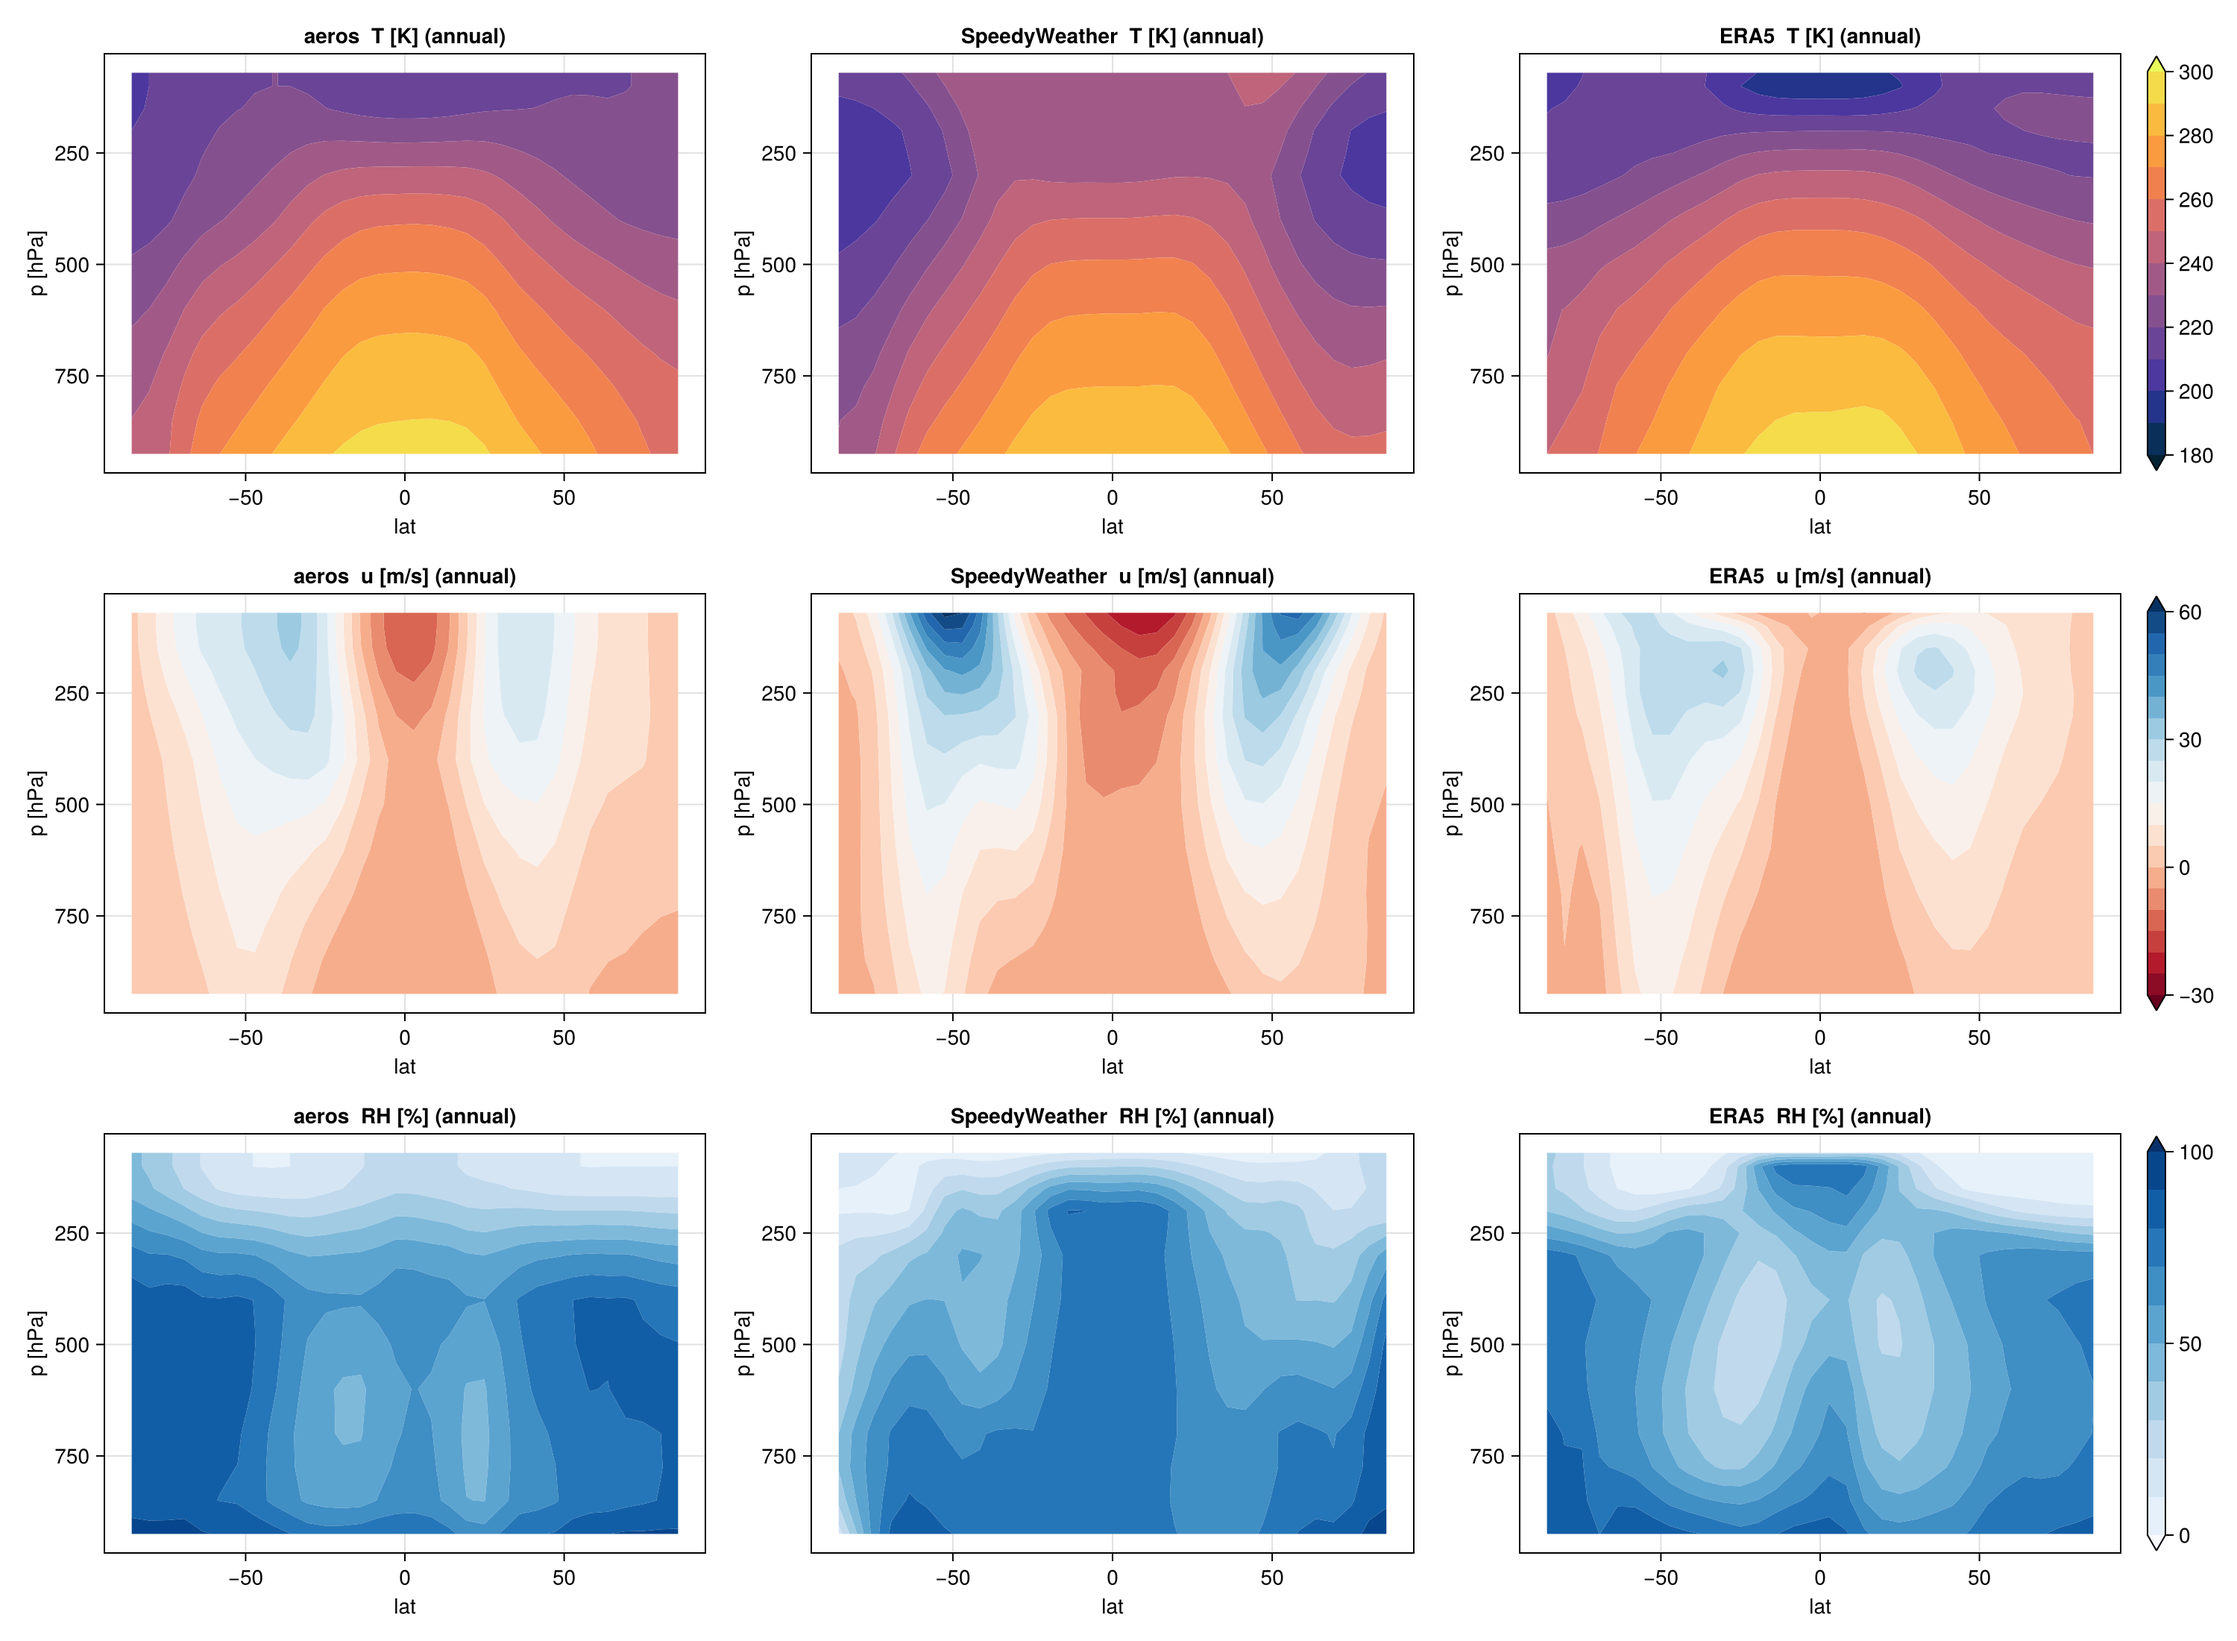
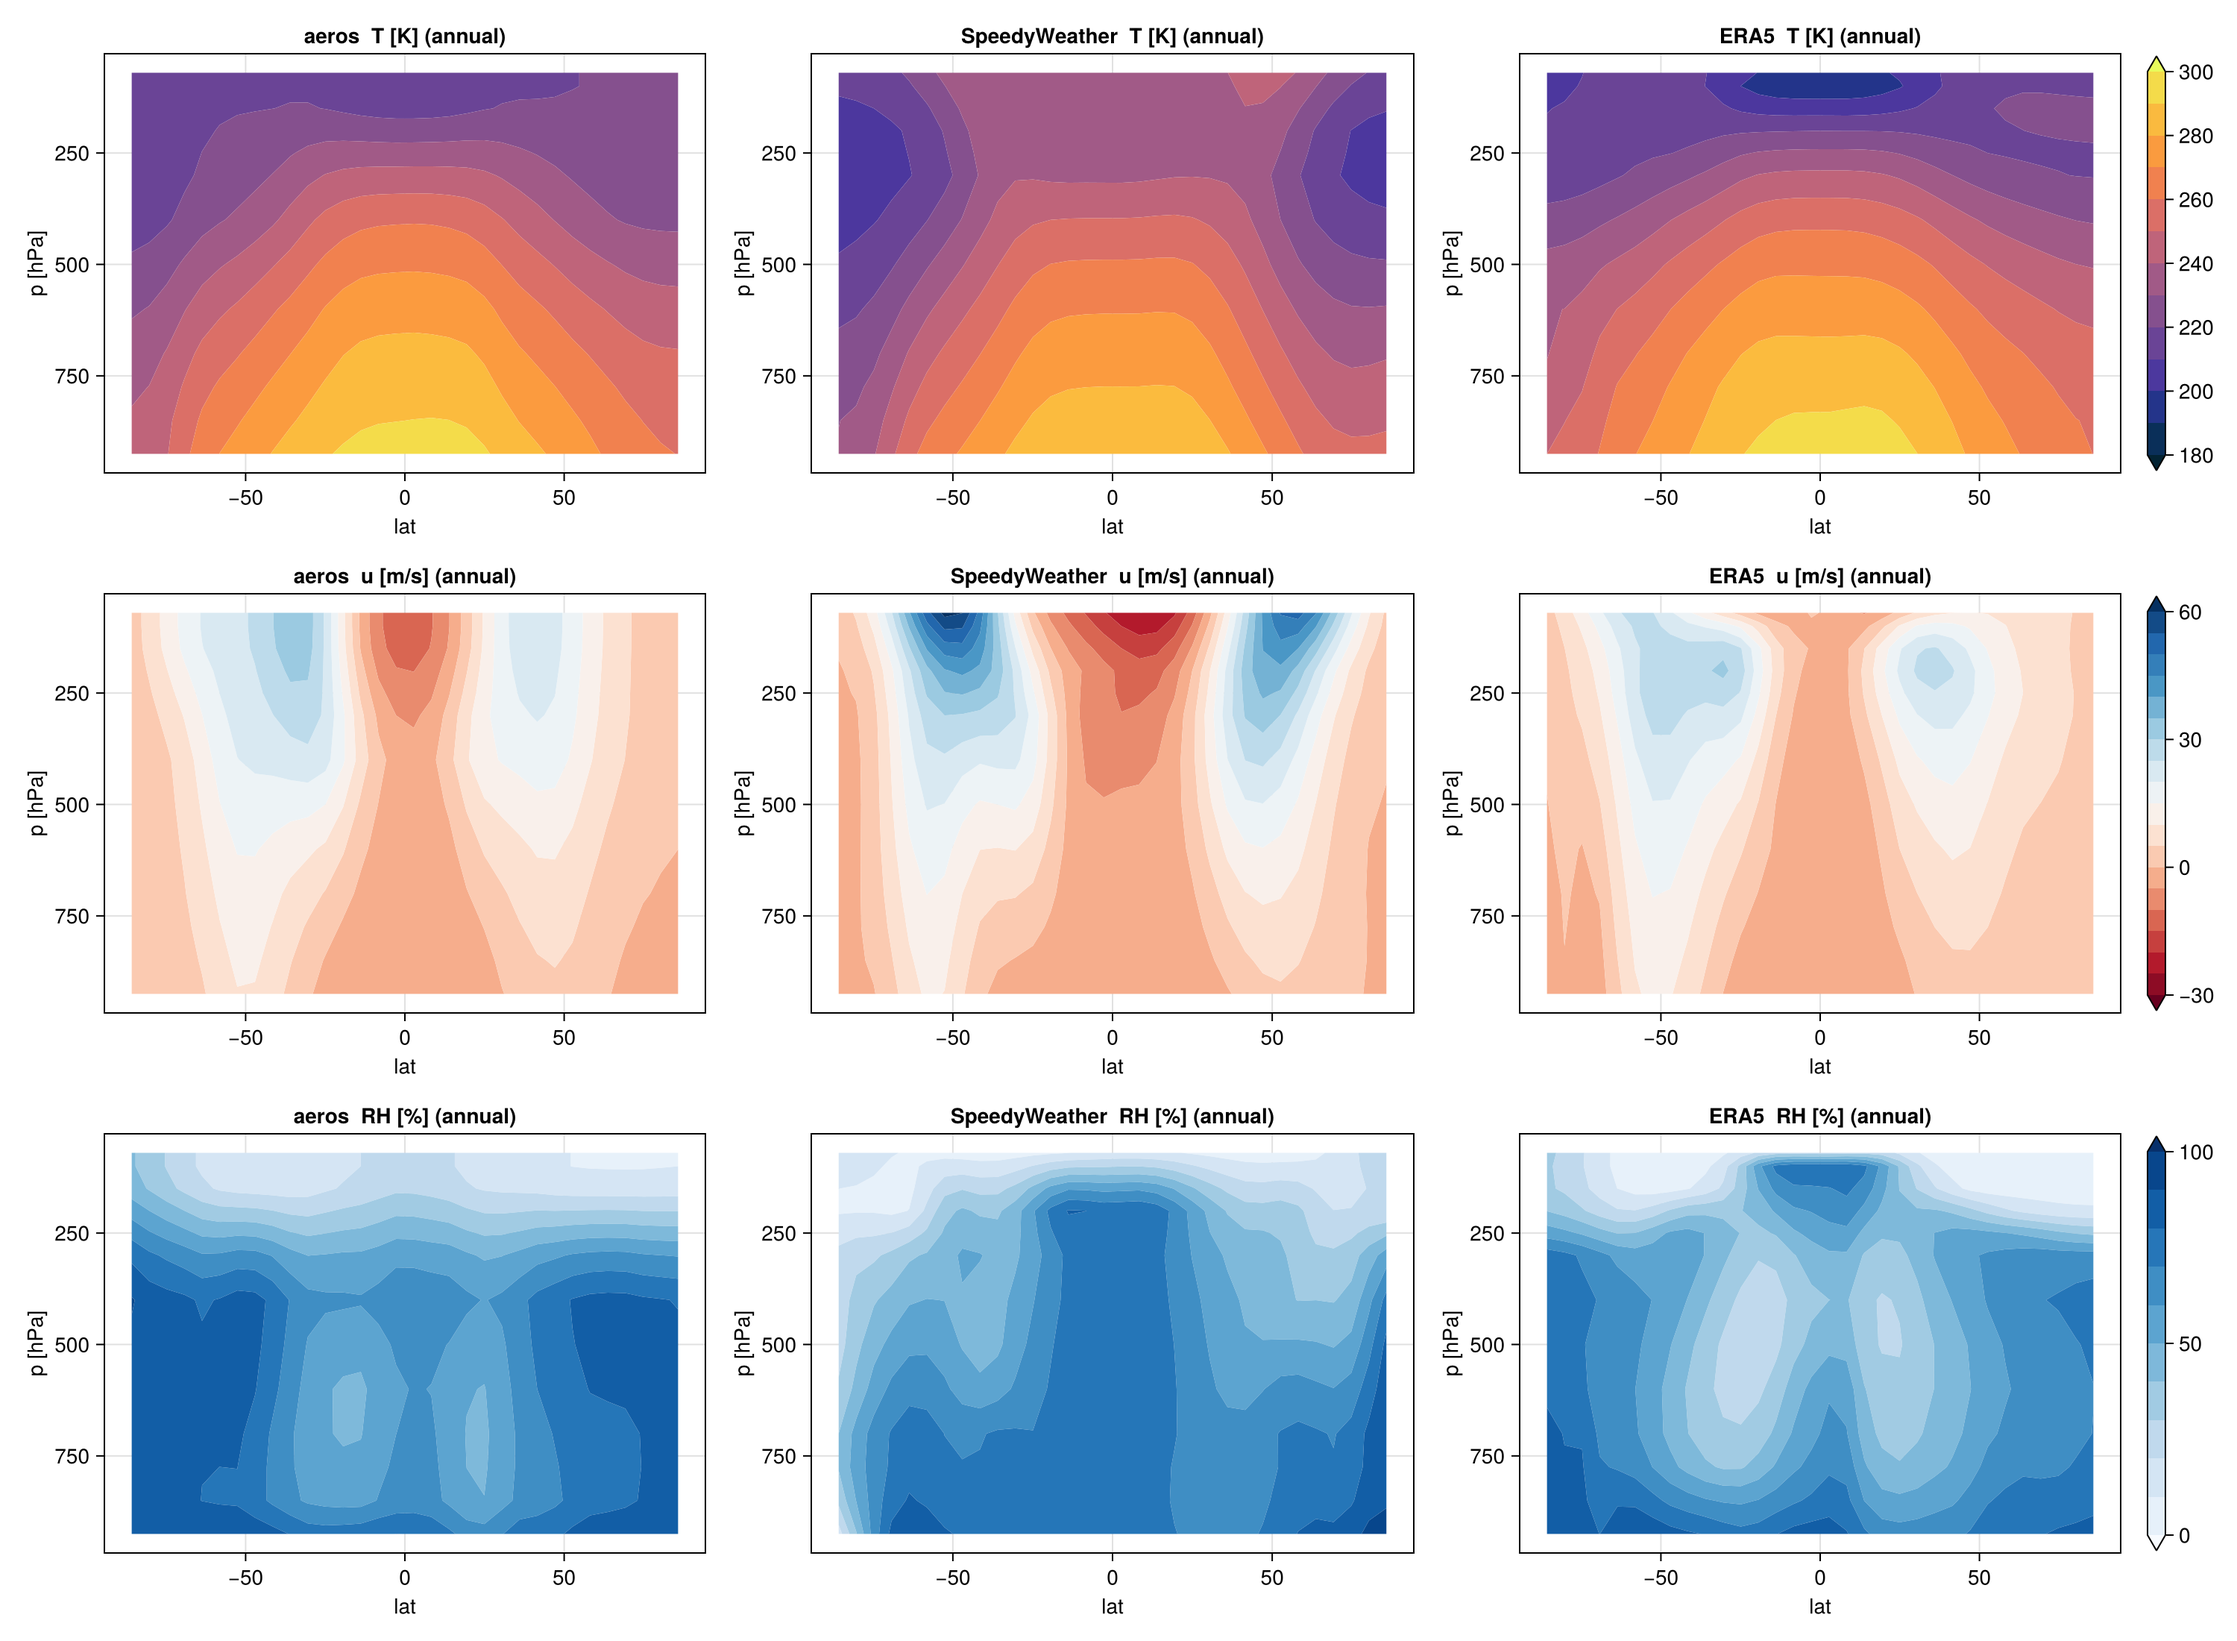
land/surface: winter recalibration -- surf_ri_crit 1 (Frierson stable limit, new key), beta_frozen 0.1 (frozen-ground evaporation, new land + rce key); monthly t2m is a surface-layer 2 m diagnostic (tlow = lowest level); NH-land amplitude 32.8 (ERA5 33.6), jet 33.5; climatology + hand-off

diff --git a/mwm/D_realearth/diag/land_budget.py b/mwm/D_realearth/diag/land_budget.py
@@ -1,0 +1,20 @@
+import sys, numpy as np, netCDF4 as nc
+E="/Users/alrobi001/data/era5/monthly-single-levels/era5_monthly-single-levels_%s_1991-2020_clim.nc"
+def era(v):
+    f=nc.Dataset(E%v); x=f[v][:].astype(float); lat=f["latitude"][:]; lon=f["longitude"][:]
+    if lat[0]>lat[-1]: lat=lat[::-1]; x=x[:,::-1,:]
+    return lat,lon,x
+lat,lon,lsm=era("lsm"); land=lsm[0]>0.5; w=np.cos(np.deg2rad(lat))[:,None]*np.ones((1,len(lon)))
+band=(lat[:,None]>=40)&(lat[:,None]<=70)&land
+def m(x): return np.array([(x[k]*w*band).sum()/(w*band).sum() for k in range(12)])
+Ev={v:m(era(v)[2]) for v in ["strd","ssr","sshf","slhf","tcc","sd","t2m","skt"]}
+for v in ["strd","ssr","sshf","slhf"]: Ev[v]/=86400.
+A=nc.Dataset(sys.argv[1]); la=A["lat"][:]; lo=A["lon"][:]; o=np.argsort(la); la=la[o]
+L=np.array([[lsm[0][np.argmin(abs(lat-y)),np.argmin(abs(lon-x%360))]>0.5 for x in lo] for y in la])
+wa=np.cos(np.deg2rad(la))[:,None]*np.ones((1,len(lo))); b=(la[:,None]>=40)&(la[:,None]<=70)&L
+def ma(v,s=1.0): x=A[v][:][:,o,:]*s; return np.array([(x[k]*wa*b).sum()/(wa*b).sum() for k in range(12)])
+Av={"lwd":ma("lwd"),"swn":ma("swn"),"shf":ma("shf"),"lh":ma("evap",2.5e6/86400.),"cover":ma("cover"),"t2m":ma("t2m"),"skin":ma("skin")}
+print("NH 40-70N land, monthly: model / ERA5   (fluxes W/m2: LWdown, SWnet(sfc), SH up, LH up; cover)")
+print("mon   LWd          SWn          SH           LH           cover        skin-air")
+for k in range(12):
+    print(f"{k+1:3d}  {Av['lwd'][k]:5.0f}/{Ev['strd'][k]:<5.0f}  {Av['swn'][k]:5.0f}/{Ev['ssr'][k]:<5.0f}  {Av['shf'][k]:5.0f}/{-Ev['sshf'][k]:<5.0f}  {Av['lh'][k]:5.0f}/{-Ev['slhf'][k]:<5.0f}  {Av['cover'][k]:5.2f}/{Ev['tcc'][k]:<5.2f}  {Av['skin'][k]-Av['t2m'][k]:5.1f}/{Ev['skt'][k]-Ev['t2m'][k]:<5.1f}")

diff --git a/mwm/D_realearth/diag/land_cycle.py b/mwm/D_realearth/diag/land_cycle.py
@@ -1,0 +1,24 @@
+"""NH 40-70N land seasonal cycle: aeros lowest-level T (t2m field) and skin vs ERA5 t2m and skt."""
+import sys, numpy as np, netCDF4 as nc
+E="/Users/alrobi001/data/era5/monthly-single-levels/era5_monthly-single-levels_%s_1991-2020_clim.nc"
+def era(v):
+    f=nc.Dataset(E%v); x=f[v][:].astype(float); lat=f["latitude"][:]; lon=f["longitude"][:]
+    if lat[0]>lat[-1]: lat=lat[::-1]; x=x[:,::-1,:]
+    return lat,lon,x
+lat,lon,lsm=era("lsm"); _,_,t2m=era("t2m"); _,_,skt=era("skt"); _,_,sd=era("sd")
+land=lsm[0]>0.5; w=np.cos(np.deg2rad(lat))[:,None]*np.ones((1,len(lon)))
+def m(x,mask): return np.array([(x[k]*w*mask).sum()/(w*mask).sum() for k in range(12)])
+band=(lat[:,None]>=40)&(lat[:,None]<=70)&land
+print("month      ERA5 t2m   ERA5 skt |", "  ".join(f"{n.split('/')[-1][:12]:>12s}" for n in sys.argv[1:]))
+rows=[]
+for f in sys.argv[1:]:
+    A=nc.Dataset(f); la=A["lat"][:]; lo=A["lon"][:]; o=np.argsort(la); la=la[o]
+    L=np.array([[lsm[0][np.argmin(abs(lat-y)),np.argmin(abs(lon-x%360))]>0.5 for x in lo] for y in la])
+    wa=np.cos(np.deg2rad(la))[:,None]*np.ones((1,len(lo))); b=(la[:,None]>=40)&(la[:,None]<=70)&L
+    ta=A["t2m"][:][:,o,:]; sk=A["skin"][:][:,o,:]
+    rows.append((np.array([(ta[k]*wa*b).sum()/(wa*b).sum() for k in range(12)]), np.array([(sk[k]*wa*b).sum()/(wa*b).sum() for k in range(12)])))
+e2=m(t2m,band); es=m(skt,band)
+for k in range(12):
+    print(f"{k+1:5d}   {e2[k]:9.1f} {es[k]:9.1f} |", "  ".join(f"{r[0][k]:6.1f}/{r[1][k]:<5.1f}" for r in rows))
+print("Jul-Jan  ERA5 t2m %.1f skt %.1f |"%(e2[6]-e2[0], es[6]-es[0]), "  ".join(f"{r[0][6]-r[0][0]:6.1f}/{r[1][6]-r[1][0]:<5.1f}" for r in rows))
+print("(model columns: lowest-level T / skin)")

diff --git a/docs/refs/realearth_metrics_2026-09-08_L6_land.md b/docs/refs/realearth_metrics_2026-09-08_L6_land.md
@@ -1,0 +1,34 @@
+# aeros vs SpeedyWeather vs ERA5, real-Earth T21 (aeros L6, 2026-09-08 night: land winter recalibration + 2 m diagnostic)
+
+aeros 3 yr (2 yr spin-up + 1 yr monthly), dt = 3600, 2694 SYPD (95 s). On top of 035ec69 (aeros_bd): `surf_ri_crit = 1` (Frierson's stable limit), `beta_frozen = 0.1` (frozen-ground evaporation), and the monthly `t2m` is now a surface-layer 2 m diagnostic (the lowest level is `tlow`). SpeedyWeather's t2m in the table is still its lowest level.
+
+Year-3 global means: TOA net +0.2 W/m², OLR 240.8 (ERA5 242), clear-sky OLR 257.8 (264), CRE SW −50.1 / LW +17.1 (−46 / +22), cover 0.55 (0.63), P = E = 3.08 mm/day (2.9), LH 89 (84; ocean 106 / land 49 vs 101 / 41), SH 17.6 (17; ocean 13 / land 29 vs 12 / 29), column water 24.9 mm (24.5).
+
+NH 40–70N land (`diag/land_cycle.py`, `land_budget.py`): 2 m T Jan 261.4 / Jul 293.6 (ERA5 257.6 / 290.7), skin 260.8 / 293.9 (skt 256.5 / 291.5); Jul−Jan 2 m 32.2, skin 33.1 (ERA5 33.1 / 35.0). January budget: LW down 233 (ERA5 209), SH −12 (−8), LH 8 (4), cover 0.68 (0.70), skin−2 m −0.6 (−1.2). July: LW down 349 (341), SW net 225 (196), SH 43 (40), LH 100 (73), cover 0.47 (0.57).
+
+Lid T minus the ERA5 10–257 hPa layer mean: 60–90S +0.9, 30–60S +2.2, tropics +2.5, 30–60N +2.6, 60–90N +1.2.
+
+Zonal T bias vs ERA5 at the same pressure (annual, K; 60–75S / 30–45S / 15S–15N / 30–45N / 45–60N / 60–75N):
+
+```
+sigma        60-75S     30-45S    15S-15N     30-45N     45-60N     60-75N
+0.134          1.5        6.4       12.4        8.4        1.1        0.2
+0.365         -1.3       -2.2        2.8        2.6       -0.1       -1.3
+0.563         -3.3       -4.1        1.3       -0.8       -1.9       -3.1
+0.728         -1.9       -3.7       -0.4       -2.0       -1.3       -2.2
+0.860         -0.1       -1.3       -1.0       -1.8       -0.2       -1.2
+0.959          0.0       -0.3        0.3       -0.1        1.1        0.2
+```
+
+aeros: `mwm/D_realearth/output/aeros_realearth_T21L6.nc` · SW: `mwm/D_realearth/output/sw_realearth_T21L8.nc`
+
+| metric | aeros | SpeedyWeather | ERA5 |
+|---|---|---|---|
+| global-mean precip [mm/day] | 3.1 | 3.3 | 2.9 |
+| global-mean T, top level / 70 hPa [K] | 216.8 | 235.2 | 206.6 |
+| global-mean T, lowest level / 2 m [K] | 285.5 | 278.3 | 287.5 |
+| max annual zonal-mean u [m/s] | 33.5 | 63.0 | 33.7 |
+| max annual [u] at 200 hPa [m/s] | 31.0 | 41.2 | 31.3 |
+| DJF NH Z500* RMS 20-80N [m] | 71.6 | 68.3 | 76.1 |
+| t2m |Jul-Jan|, NH 40-70N land [K] | 32.8 | 29.2 | 33.6 |
+| throughput [SYPD, 10 threads] | 2694.1 | 708.7 | NaN |

diff --git a/docs/m2_handoff.md b/docs/m2_handoff.md
@@ -52,6 +52,24 @@ Result (`docs/refs/realearth_metrics_2026-09-08_L6_bd.md`, `cld_lwc` 0.029e-3 fo
 σ 0.365 +2.5–3 K (a free-run property the relaxation pinned; not w*), 30–45S −4 at 0.56–0.73,
 the land amplitude, and P 3.15 vs 2.9.
 
+### Update 2026-09-08 (night): land winter recalibration and an honest 2 m diagnostic
+
+With the jet at ERA5's the NH-land amplitude had dropped to 30.7 (lowest level). Budget over
+40–70N land (`diag/land_budget.py`): the January skin was 4.3 K warm with LW down +26 (cover 0.81
+vs 0.70), downward SH −25 (ERA5 −8) and LH 17–24 from frozen ground (ERA5 4–6); July within 1.5 K
+once the 360 m level is allowed for. Not levers: `c_soil` (3e6: no change) and `cld_rhc_sfc` (0.60:
+winter LW down unchanged, TOA +3.4). Adopted: **`surf_ri_crit = 1`** (Frierson's stable limit;
+new `&rce` key; SpeedyWeather's 10 let the 360 m log law over z0 = 0.5 m pass 25 W/m² downward)
+and **`beta_frozen = 0.1`** (new land key + `&rce` key: beta × 0.1 below T0, ramped over
+`snow_dt`; winter LH 17 → 8, cover 0.81 → 0.68, LW down 235 → 233). And the monthly `t2m` is now a
+**surface-layer 2 m temperature** (skin-to-level-1 potential-temperature profile on the flux
+scheme's own stability functions, `aeros_surface%t2m`; the lowest level is `tlow`), so the harness
+amplitude metric compares like with like. Result (`docs/refs/realearth_metrics_2026-09-08_L6_land.md`):
+amplitude 32.8 (ERA5 33.6), skin 33.1 (35.0), jet 33.5 (33.7), Z500* 71.6 (76), TOA +0.2, P 3.08.
+Both land seasons are still ~3–4 K warm at 2 m: January from the moist winter cap's LW down
+(233 vs 209; RH 82–94 % at 45–75N — deficit 2), July from too little cloud over summer land (SW net
+225 vs 196, cover 0.47 vs 0.57) and LH 100 vs 73.
+
 ### Where the model is
 
 All on `main`: 9e7b227 (morning), then **6b8b55a** (surface exchange: Monin-Obukhov unstable
